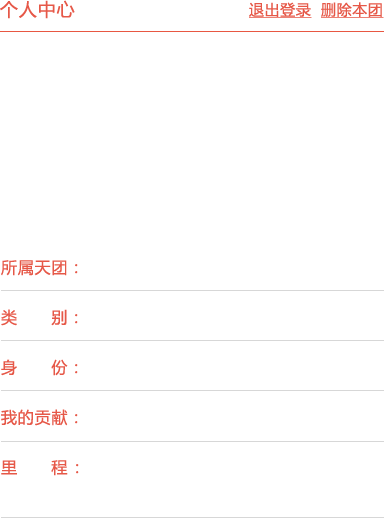
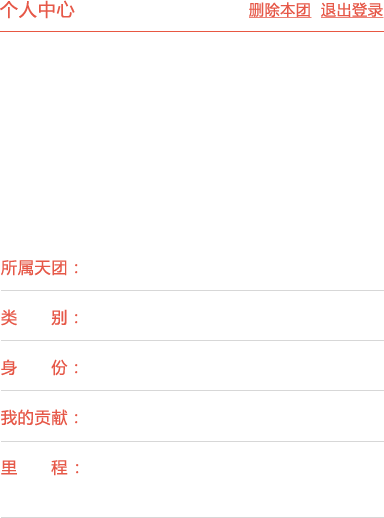
12123

Changed region(s): [[0.625, 0.0, 1.0, 0.0309]]

diff --git a/static/pc/css/style.css b/static/pc/css/style.css
@@ -110,7 +110,7 @@ body{ background:#fff;}
 		.ny_nav ul li.li4 a{ width:106px;}
 		.ny_nav ul li.li4 a.cur,.ny_nav ul li.li4 a:hover{ background-position:-372px -23px;}
 .ny_content{width:1360px; margin:0 auto}	
-	.ny_conleft{ float:left; width:440px; height:1020px; background:#f1f1f1; margin:0 20px 0 0;}
+	.ny_conleft{ float:left; width:440px; height:1120px; background:#f1f1f1; margin:0 20px 0 0;}
 		.ny_leftinfo{ width:384px; height:518px; padding:0 0 0 0; margin:28px; background:url(../images/ny_leftinfo.png) top center no-repeat;}
 			.ny_leftinfo .ny_admintitle{ width:384px; height:20px;}
 			.ny_leftinfo .ny_admintitle a{ float:right; width:65px; height:20px; display:inline-block;}
@@ -129,7 +129,16 @@ body{ background:#fff;}
 		.ny_leftbtn .ny_lefticon a.icon_rr{ float:left; width:34px; margin:0 33px 0 0; height:34px; background:url(../images/icon_rr.png) no-repeat}
 		.ny_leftbtn .ny_lefticon a.icon_dd{ float:left; width:34px; height:34px; background:url(../images/icon_dd.png) no-repeat}
 		
-		.ny_leftqt{ width:384px; margin:0 auto; background:url(../images/title_qt.png) left top no-repeat; padding:30px 0 0 0;}
+		.ny_leftbtqt{ width:384px; margin:0 auto; background:url(../images/title_btqt.png) left top no-repeat; padding:30px 0 0 0;}
+		.ny_leftbtqt ul li{ float:left; width:80px; margin:10px 15px 0 0;}
+		.ny_leftbtqt ul li a.top{ display:inline-block; text-decoration:none; text-align:center; }
+		.ny_leftbtqt ul li a.top img{ width:50px; height:50px; border:none;}
+		.ny_leftbtqt ul li a.top div{ width:80px; height:30px; line-height:30px;color:#848484; font-size:14px; font-weight:400; white-space: nowrap;text-overflow:ellipsis; overflow:hidden;}
+		.ny_leftbtqt ul li .btn_delete{ width:66px; height:28px; margin:0 auto;}
+		.ny_leftbtqt ul li .btn_delete a{ display:inline-block; width:66px; height:28px; background:url(../images/btn_delete.png) center no-repeat;}
+		.ny_leftbtqt ul li .btn_delete a:hover{opacity:0.7;filter:alpha(opacity=70);}
+		
+		.ny_leftqt{ width:384px; margin:40px auto; background:url(../images/title_qt.png) left top no-repeat; padding:30px 0 0 0;}
 		.ny_leftqt ul li{ float:left; width:80px; margin:10px 15px 0 0;}
 		.ny_leftqt ul li a{ display:inline-block; text-decoration:none; text-align:center; }
 		.ny_leftqt ul li a img{ width:50px; height:50px; border:none;}

diff --git a/application/views/rank.php b/application/views/rank.php
@@ -222,10 +222,10 @@
 
             <div class="ny_admintitle">
 
-        <?php if($user_result['uweiboid'] == $user_result['tweiboid']):?>
+                <a onclick="_gaq.push(['_trackEvent', 'TeamRank', 'ButtonClick', 'LogOut']);_smq.push(['custom','LogOut','ButtonClick']);" href="<?=$this->config->base_url()?>welcome/logout" style="margin-right: 7px;" title="退出登录"></a>
+                <?php if($user_result['uweiboid'] == $user_result['tweiboid']):?>
                 <a onclick="_gaq.push(['_trackEvent', 'TeamRank', 'ButtonClick', 'DeleteTeam']);_smq.push(['custom','DeleteTeam','ButtonClick']);" href="javascript:deleteteam();" title="删除本团"></a>
         <?php endif; ?>
-            <a onclick="_gaq.push(['_trackEvent', 'TeamRank', 'ButtonClick', 'LogOut']);_smq.push(['custom','LogOut','ButtonClick']);" href="<?=$this->config->base_url()?>welcome/logout" style="margin-right: 7px;" title="退出登录"></a>
         </div>
 
 
